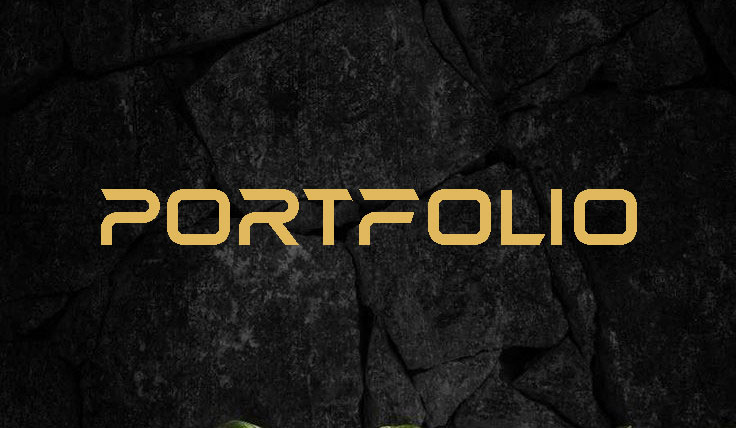
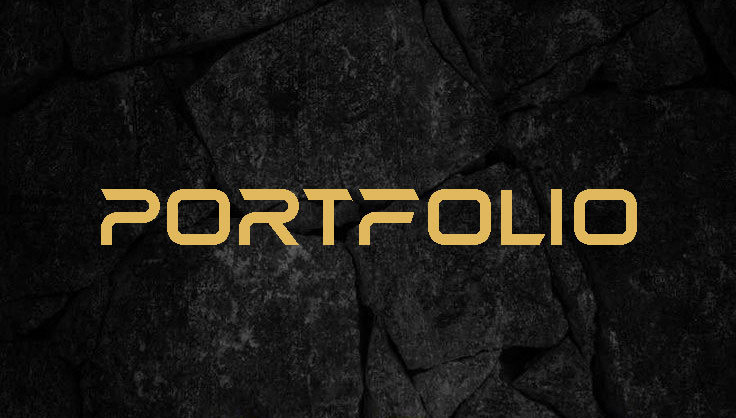
i fixed some bugs

diff --git a/src/constants/homepage.ts b/src/constants/homepage.ts
@@ -67,7 +67,7 @@ export const finalVariant = {
 export const attached_1 = `I am web developer focused on React Js and the most recently
 technologies related to this library such as NextJs, framer-motion,
 styled-components, chakra ui, zustand, valtio, react-router-dom,
-react-hook-forms, react-query and wonderful libraries made specially
+react-hook-form, react-query and wonderful libraries made specially
 for react by its own creators.`;
 
 export const attached_2 = `I am also focused on Express Js, and related libraries to afford

diff --git a/src/pages/index.tsx b/src/pages/index.tsx
@@ -49,8 +49,8 @@ function Homepage() {
             <MotionOnScroll variants={firstParagraphVariant}>
               <S.FirstParagraph>
                 {attached_1}
-                <a href='https://github.com/gfouz/best-practices.git Portfolio 2023'>
-                  Portfolio react-vite-2023
+                <a href='https://github.com/gfouz/next-app.git'>
+                  Portfolio-latest.
                 </a>
               </S.FirstParagraph>
             </MotionOnScroll>

diff --git a/src/styledComponents/contact.tsx b/src/styledComponents/contact.tsx
@@ -26,7 +26,7 @@ export const ContactContainer = styled.div`
   background-repeat: no-repeat;
   background-size: cover;
   background-attachment: fixed;
-  background-image: url('./images/prism.jpg');
+  background-image: url('./images/tulip.jpg');
 `;
 export const MainTitle = styled( Subtitle )`
   color: #ffffff;
